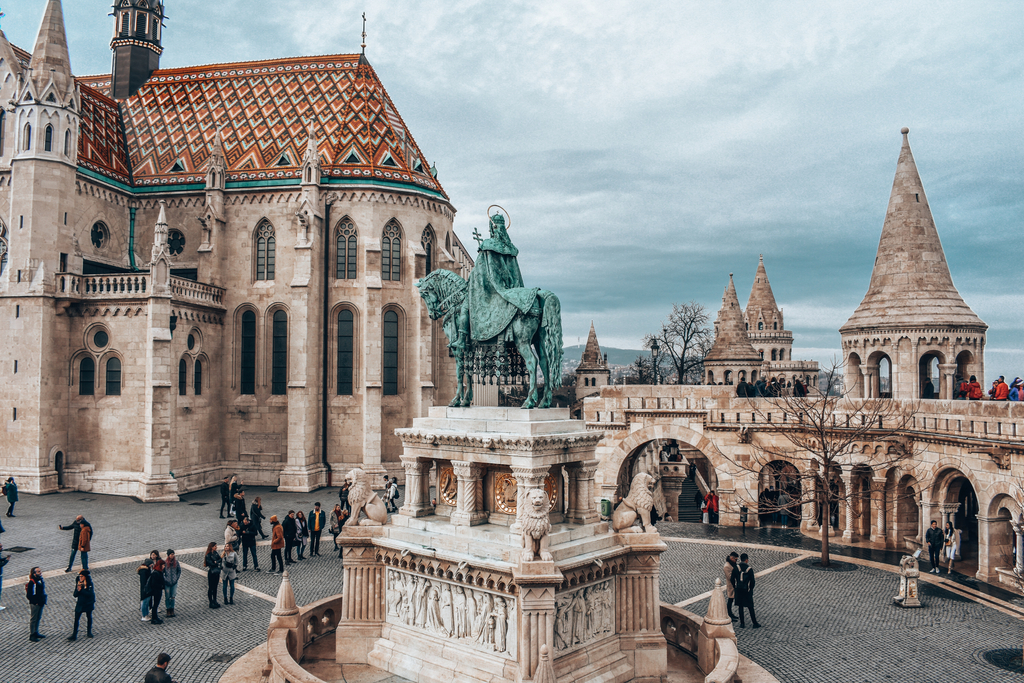
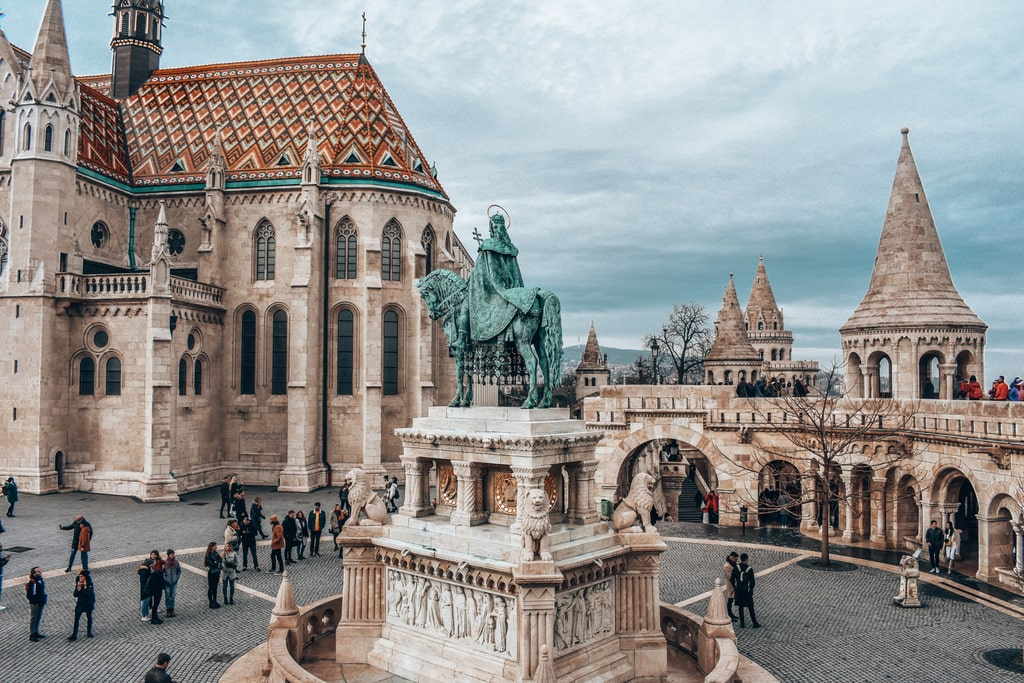
optimized photos and changed content

Changed region(s): [[0.0938, 0.0922, 0.4062, 0.2767], [0.9688, 0.5534, 1.0, 0.5842]]

diff --git a/kursova_page/templates/index.html b/kursova_page/templates/index.html
@@ -112,57 +112,6 @@
 					</div>
 
 					{% endfor %}
-
-
-					<!-- <div class = "content-item bg-options destination1 swiper-slide">
-						<div class = "content-text-block d-flex flex-column">
-							<span class = "location-title">Monument of Berlin</span>
-							<div class = "content-location">
-								<svg width="24" height="24" viewBox="0 0 24 24" fill="none" xmlns="http://www.w3.org/2000/svg">
-								<path d="M3.5625 8.4375C3.5625 12.6054 6.74442 17.1274 9.55209 21.0351C10.2195 21.9634 10.8588 22.8526 11.415 23.6869C11.5454 23.8826 11.7652 24 12 24C12.2347 24 12.4545 23.8826 12.585 23.6869C13.1411 22.8526 13.7804 21.9634 14.4478 21.0351C17.2556 17.1274 20.4375 12.6054 20.4375 8.4375C20.4375 3.78478 16.6527 0 12 0C7.34728 0 3.5625 3.78478 3.5625 8.4375ZM16.2188 8.4375C16.2188 10.7639 14.3264 12.6562 12 12.6562C9.67364 12.6562 7.78125 10.7639 7.78125 8.4375C7.78125 6.11114 9.67364 4.21875 12 4.21875C14.3264 4.21875 16.2188 6.11114 16.2188 8.4375Z" fill="white"/>
-								<path d="M12 11.25C13.5533 11.25 14.8125 9.9908 14.8125 8.4375C14.8125 6.8842 13.5533 5.625 12 5.625C10.4467 5.625 9.1875 6.8842 9.1875 8.4375C9.1875 9.9908 10.4467 11.25 12 11.25Z" fill="white"/>
-								</svg>
-								<span class = "title-small white-text">Berlin, Germany</span>			
-							</div>
-						</div>
-					</div>
-							
-					<div class = "content-item bg-options destination2 swiper-slide">
-						<div class = "content-text-block d-flex flex-column">
-							<span class = "location-title">Millennium Bridge</span>
-							<div class = "content-location">
-								<svg width="24" height="24" viewBox="0 0 24 24" fill="none" xmlns="http://www.w3.org/2000/svg">
-								<path d="M3.5625 8.4375C3.5625 12.6054 6.74442 17.1274 9.55209 21.0351C10.2195 21.9634 10.8588 22.8526 11.415 23.6869C11.5454 23.8826 11.7652 24 12 24C12.2347 24 12.4545 23.8826 12.585 23.6869C13.1411 22.8526 13.7804 21.9634 14.4478 21.0351C17.2556 17.1274 20.4375 12.6054 20.4375 8.4375C20.4375 3.78478 16.6527 0 12 0C7.34728 0 3.5625 3.78478 3.5625 8.4375ZM16.2188 8.4375C16.2188 10.7639 14.3264 12.6562 12 12.6562C9.67364 12.6562 7.78125 10.7639 7.78125 8.4375C7.78125 6.11114 9.67364 4.21875 12 4.21875C14.3264 4.21875 16.2188 6.11114 16.2188 8.4375Z" fill="white"/>
-								<path d="M12 11.25C13.5533 11.25 14.8125 9.9908 14.8125 8.4375C14.8125 6.8842 13.5533 5.625 12 5.625C10.4467 5.625 9.1875 6.8842 9.1875 8.4375C9.1875 9.9908 10.4467 11.25 12 11.25Z" fill="white"/>
-								</svg>
-								<span class = "title-small white-text">London, United Kingdom</span>			
-							</div>
-						</div>
-					</div>			
-					<div class = "content-item destination3 swiper-slide">
-						<div class = "content-text-block d-flex flex-column">
-							<span class = "location-title">Rialto Bridge</span>
-							<div class = "content-location">
-								<svg width="24" height="24" viewBox="0 0 24 24" fill="none" xmlns="http://www.w3.org/2000/svg">
-								<path d="M3.5625 8.4375C3.5625 12.6054 6.74442 17.1274 9.55209 21.0351C10.2195 21.9634 10.8588 22.8526 11.415 23.6869C11.5454 23.8826 11.7652 24 12 24C12.2347 24 12.4545 23.8826 12.585 23.6869C13.1411 22.8526 13.7804 21.9634 14.4478 21.0351C17.2556 17.1274 20.4375 12.6054 20.4375 8.4375C20.4375 3.78478 16.6527 0 12 0C7.34728 0 3.5625 3.78478 3.5625 8.4375ZM16.2188 8.4375C16.2188 10.7639 14.3264 12.6562 12 12.6562C9.67364 12.6562 7.78125 10.7639 7.78125 8.4375C7.78125 6.11114 9.67364 4.21875 12 4.21875C14.3264 4.21875 16.2188 6.11114 16.2188 8.4375Z" fill="white"/>
-								<path d="M12 11.25C13.5533 11.25 14.8125 9.9908 14.8125 8.4375C14.8125 6.8842 13.5533 5.625 12 5.625C10.4467 5.625 9.1875 6.8842 9.1875 8.4375C9.1875 9.9908 10.4467 11.25 12 11.25Z" fill="white"/>
-								</svg>
-								<span class = "title-small white-text">Venice, Italy</span>			
-							</div>
-						</div>
-					</div>			
-					<div class = "content-item destination4 swiper-slide">
-						<div class = "content-text-block d-flex flex-column ">
-							<span class = "location-title">Sea of Orange Tiles</span>
-							<div class = "content-location">
-								<svg width="24" height="24" viewBox="0 0 24 24" fill="none" xmlns="http://www.w3.org/2000/svg">
-								<path d="M3.5625 8.4375C3.5625 12.6054 6.74442 17.1274 9.55209 21.0351C10.2195 21.9634 10.8588 22.8526 11.415 23.6869C11.5454 23.8826 11.7652 24 12 24C12.2347 24 12.4545 23.8826 12.585 23.6869C13.1411 22.8526 13.7804 21.9634 14.4478 21.0351C17.2556 17.1274 20.4375 12.6054 20.4375 8.4375C20.4375 3.78478 16.6527 0 12 0C7.34728 0 3.5625 3.78478 3.5625 8.4375ZM16.2188 8.4375C16.2188 10.7639 14.3264 12.6562 12 12.6562C9.67364 12.6562 7.78125 10.7639 7.78125 8.4375C7.78125 6.11114 9.67364 4.21875 12 4.21875C14.3264 4.21875 16.2188 6.11114 16.2188 8.4375Z" fill="white"/>
-								<path d="M12 11.25C13.5533 11.25 14.8125 9.9908 14.8125 8.4375C14.8125 6.8842 13.5533 5.625 12 5.625C10.4467 5.625 9.1875 6.8842 9.1875 8.4375C9.1875 9.9908 10.4467 11.25 12 11.25Z" fill="white"/>
-								</svg>
-								<span class = "title-small white-text">Lisbon, Portugal</span>			
-							</div>
-						</div>
-					</div> -->
 				</div>
 			</div>
 			<div class = "arrows-wrap arrows-below">
@@ -554,10 +503,7 @@
 				<div id = "firstClient" class="review-block flex-column">
 					<div class="review-avatar position-absolute backgr-position avatar1 bg-options"></div>
 					<span class = "normal-text d-block grey-text">
-						But I must explain to you how all this mistaken idea of denouncing pleasure and praising pain was born and
-						I will give you a complete account of the system and expound the actual teachings of the great explorer of
-						the truth, the master- builder of human happiness.
-					</span>
+						I recently booked a trip through this agency, and it exceeded all my expectations! The website was user-friendly, making it easy to explore different destinations and find the perfect package. From the moment I inquired to the end of the trip, the customer service was exceptional. Our tour guide was knowledgeable, and the itinerary was well-planned. I highly recommend this agency to anyone looking for a seamless and unforgettable travel experience!					</span>
 					<div class="review-rate">
 						<svg xmlns="http://www.w3.org/2000/svg" width="24" height="25" viewBox="0 0 24 25" fill="none">
 							<path d="M12 2.5L15.09 8.76L22 9.77L17 14.64L18.18 21.52L12 18.27L5.82 21.52L7 14.64L2 9.77L8.91 8.76L12 2.5Z" fill="#FFC107"/>
@@ -587,9 +533,7 @@
 				<div class="review-block flex-column">
 					<div class="review-avatar position-absolute backgr-position avatar2 bg-options"></div>
 					<span class = "normal-text  d-block grey-text">
-						But I must explain to you how all this mistaken idea of denouncing pleasure and praising pain was born and
-						I will give you a complete account of the system and expound the actual teachings of the great explorer of
-						the truth, the master- builder of human happiness.
+						I stumbled upon this trip agency website while planning my vacation, and it turned out to be a fantastic find! The booking process was straightforward, and they offered a variety of tours within my budget. The website provided detailed information about each destination, making it easy for me to choose. The best part was the amazing deals they offered. I got more value for my money than I expected. I'm already thinking about my next adventure with this agency!
 					</span>
 					<div class="review-rate">
 						<svg xmlns="http://www.w3.org/2000/svg" width="24" height="25" viewBox="0 0 24 25" fill="none">
@@ -620,9 +564,7 @@
 				<div class="review-block flex-column">
 					<div class="review-avatar position-absolute backgr-position avatar3 bg-options"></div>
 					<span class = "normal-text  d-block grey-text">
-						But I must explain to you how all this mistaken idea of denouncing pleasure and praising pain was born and
-						I will give you a complete account of the system and expound the actual teachings of the great explorer of
-						the truth, the master- builder of human happiness.
+						Thanks to this trip agency, I just had the vacation of a lifetime! The website not only showcased stunning destinations but also provided insights into local culture and activities. The booking process was smooth, and the customer support team was responsive and helpful. The tour itself was well-organized, and every detail was taken care of. I felt like I was living a dream. I can't thank the agency enough for making my vacation so memorable. I'll definitely be a repeat customer!
 					</span>
 					<div class="review-rate">
 						<svg xmlns="http://www.w3.org/2000/svg" width="24" height="25" viewBox="0 0 24 25" fill="none">

diff --git a/kursova_page/static/styles/destinations.css b/kursova_page/static/styles/destinations.css
@@ -23,18 +23,7 @@
     border-radius: 16px;
     background: linear-gradient(0deg, rgba(255, 119, 87, 0.10) 0%, rgba(255, 119, 87, 0.10) 100%), lightgray 50% / cover no-repeat;
 }
-.destination1{
-    background: url("../images/destinations_pics/destination1.jpg");
-}
-.destination2{
-    background: url("../images/destinations_pics/destination2.jpg");
-}
-.destination3{
-    background: url("../images/destinations_pics/destination3.jpg");
-}
-.destination4{
-    background: url("../images/destinations_pics/destination4.jpg");
-}
+
 
 .content-item{
     background-position: 50% 0%;

diff --git a/kursova_page/static/styles/hero_section.css b/kursova_page/static/styles/hero_section.css
@@ -2,7 +2,7 @@
 .hero-section{
     z-index:1;
     width: 100%;
-    background: linear-gradient(0deg, rgba(0, 0, 0, 0.30) 0%, rgba(0, 0, 0, 0.30) 100%), url("../images/backgr_img.jpg"), lightgray 0px -1241.288px / 100% 212.254% no-repeat;
+    background: linear-gradient(0deg, rgba(0, 0, 0, 0.30) 0%, rgba(0, 0, 0, 0.30) 100%), url("../images/backgr_img.webp"), lightgray 0px -1241.288px / 100% 212.254% no-repeat;
     background-repeat:	no-repeat;
     background-position: 10% 75%;
 }

diff --git a/kursova_page/static/styles/blog.css b/kursova_page/static/styles/blog.css
@@ -10,7 +10,7 @@
     height: 314px;
     border-radius: 26px;
     background: linear-gradient(0deg, rgba(0, 0, 0, 0.20) 0%,
-     rgba(0, 0, 0, 0.20) 100%), url("../images/blog_img.jpg"),
+     rgba(0, 0, 0, 0.20) 100%), url("../images/blog_img.webp"),
      lightgray no-repeat;
     background-size: 150%;
     background-repeat: no-repeat;

diff --git a/kursova_page/static/blog_page/styles/style.css b/kursova_page/static/blog_page/styles/style.css
@@ -24,7 +24,7 @@ header{
     margin-top: 0px !important;
 }
 .blog-image-block{
-    background: url("../../images/blog_img.jpg");
+    background: url("../../images/blog_img.webp");
     background-size: cover;
     background-position: center;
 

diff --git a/kursova_page/static/styles/style.css b/kursova_page/static/styles/style.css
@@ -182,7 +182,7 @@ input{
 .swiper{
 	z-index: 0 !important;
 }
-.offer-description, .offer-rate , .offer-text-block {
+.offer-description , .offer-text-block {
 	flex: 1;
 }
 .offer-text-block{
